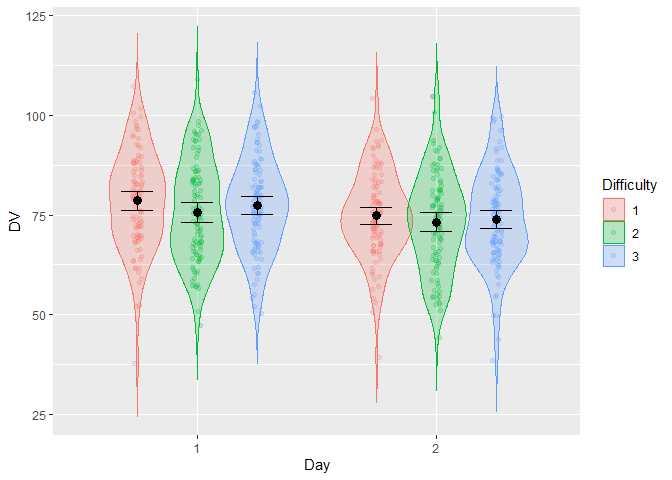
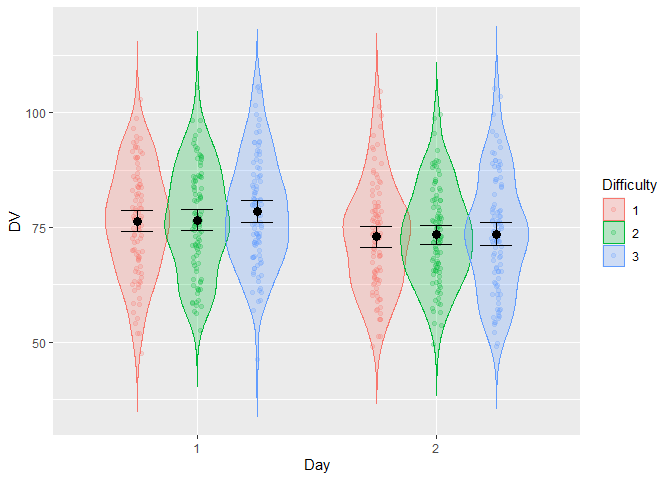
version 0.9.4.4b (stable)

diff --git a/README.md b/README.md
@@ -54,8 +54,6 @@ superbPlot(ToothGrowth,
     variables = "len" )
 ```
 
-    ## NOTE: The variables will be plotted in that order: dose, supp (use factorOrder to change).
-
 ![](README_files/figure-gfm/unnamed-chunk-5-1.png)<!-- -->
 
 In the above, the default summary statistic, the mean, is used. The
@@ -73,8 +71,6 @@ superbPlot(ToothGrowth,
     statistic = "median")
 ```
 
-    ## NOTE: The variables will be plotted in that order: dose, supp (use factorOrder to change).
-
 ![](README_files/figure-gfm/unnamed-chunk-6-1.png)<!-- -->
 
 As a third example, we illustrate the harmonic means `hmedian` along
@@ -88,8 +84,6 @@ superbPlot(ToothGrowth,
     errorbar = "CI", gamma = 0.999,
     plotStyle = "line")
 ```
-
-    ## NOTE: The variables will be plotted in that order: dose, supp (use factorOrder to change).
 
 ![](README_files/figure-gfm/unnamed-chunk-7-1.png)<!-- -->
 
@@ -108,30 +102,16 @@ testdata <- GRD(
     Population = list(mean = 75,stddev = 12,rho = 0.5),
     Effects    = list("Day" = slope(-3) )
 )
-```
-
-    ## ------------------------------------------------------------ 
-    ## Design is: 3 x ( 2 ) with 3 independent groups.
-    ## ------------------------------------------------------------
-    ## 1.Between-Subject Factors ( 3 groups ) :
-    ##  Difficulty; levels: 1, 2, 3
-    ## 2.Within-Subject Factors ( 2 repeated measures ):
-    ##  Day; levels : 1, 2
-    ## 3.Subjects per group ( 300 total subjects ):
-    ##   100
-    ##  ------------------------------------------------------------
-
-``` r
 head(testdata)
 ```
 
-    ##   id Difficulty   score.1  score.2
-    ## 1  1          1  88.06996 78.01994
-    ## 2  2          1  87.90371 70.93341
-    ## 3  3          1  82.12760 66.00461
-    ## 4  4          1 100.50492 96.40709
-    ## 5  5          1  69.81583 73.52944
-    ## 6  6          1  82.95032 85.19845
+    ##   id Difficulty  score.1  score.2
+    ## 1  1          1 79.24015 73.66921
+    ## 2  2          1 90.22441 97.02647
+    ## 3  3          1 83.09390 79.58453
+    ## 4  4          1 81.97316 77.38912
+    ## 5  5          1 75.11573 71.09902
+    ## 6  6          1 92.71133 78.39087
 
 The simulated scores are illustrated using jitter dots as well as a
 violin plot to show the distributions:
@@ -146,8 +126,6 @@ superbPlot(testdata,
     pointParams = list( size = 3, color = "black")
 )
 ```
-
-    ## NOTE: The variables will be plotted in that order: Day, Difficulty (use factorOrder to change).
 
 ![](README_files/figure-gfm/unnamed-chunk-9-1.png)<!-- -->
 
